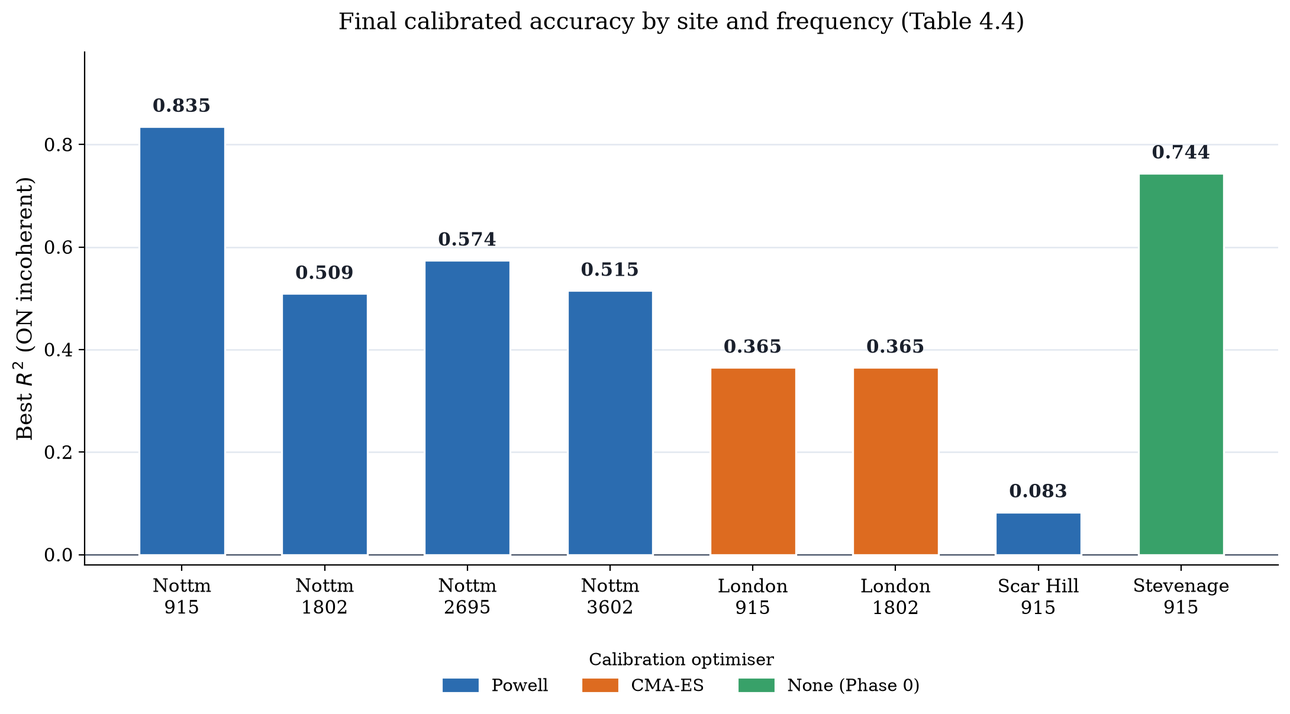
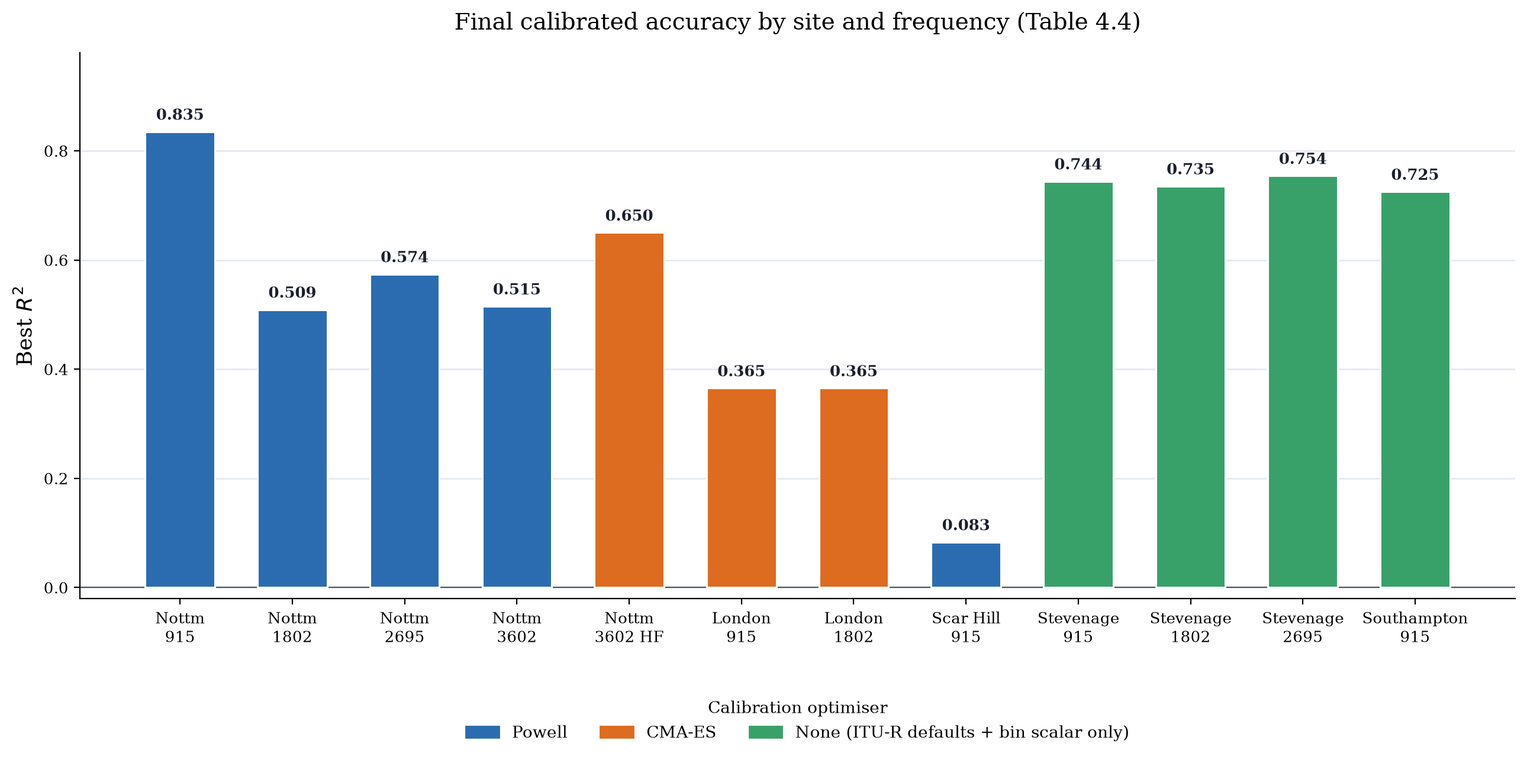
Chapters 3-5: incorporate new verified results from claude/cool-cori-rrWbY
Pulled and cross-checked directly against CLAUDE.md on the corri branch
(fetched fresh; work has continued there since the last sync). Real,
FINAL results now exist for three site/frequency combinations that were
previously "in progress" or altogether missing, plus two RMSE values
in Chapter 4 needed correction:

- Southampton 915 MHz: R²=0.725, RMSE=6.4 dB (N=338, 0-900m) - now a
  FINAL result, added throughout as a fifth site
- Stevenage 1802 MHz: R²=0.735, RMSE=10.6 dB (N=873, 0-1750m) - FINAL
- Stevenage 2695 MHz: R²=0.754, RMSE=10.5 dB (N=1129, 0-2250m) - FINAL
- Nottingham 3602 MHz HF scene (3-layer vegetation discs): R²=0.65,
  a distinct, independently-accepted scene variant alongside the main
  3602 MHz result (0.515) - added as its own row, not a replacement
- Corrected Nottingham 2695 MHz RMSE: 12.7 dB (was ~13.7, an earlier
  rough estimate) and Nottingham 3602 MHz RMSE: 9.8 dB (was ~15.4,
  stale from a different, earlier run)

Notable finding surfaced by the new data: Stevenage's best method is
coherent (not incoherent) summation at all three of its frequencies -
the only site where this holds - because scattered energy phase-cancels
in a genuinely specular-dominated environment. This is now a
three-frequency-confirmed characteristic rather than a single-frequency
observation, and Chapter 5 Section 5.2 has been updated accordingly.

Also corrected Chapter 3's site/frequency description, which understated
[…]

diff --git a/thesis/chapter4_implementation.md b/thesis/chapter4_implementation.md
@@ -58,23 +58,23 @@ At the time of the query, GPU utilisation was at 100% across four concurrent Pyt
 
 **Table 4.2 — Ray-tracing and calibration configuration by site and frequency.** All frequencies share EPSG:27700 (British National Grid, `always_xy=True`), `MAX_DEPTH=8`, diffraction and edge diffraction enabled, and `TERRAIN_PAD_M=3000`. RX AGL = 1.5 m throughout.
 
-| Parameter | Nottm 915 MHz | Nottm 1802 MHz | Nottm 2695 MHz | Nottm 3602 MHz | London 915 MHz | Scar Hill 915 MHz | Stevenage 915 MHz |
-|---|---|---|---|---|---|---|---|
-| TX AGL | 17 m | 17 m | 17 m | 17 m | 45 m | 17 m | — * |
-| TX EIRP | — | — | 56 dBm | 54 dBm | 49 dBm | 46.9 dBm | — * |
-| Noise floor | −124 dBm | — | −120 dBm | −109 dBm | — | −124 dBm | — * |
-| `CAL_SAMPLES_PS` | 2 M | 2 M | 10 M | 30 M | 15 M | 10 M | 30 M |
-| `NUM_SAMPLES_PS` | 100 M | 100 M | 100 M | 100 M | 100 M | 10 M | 100 M |
-| `CAL_MAX_DIST_KM` | 1.5 | 1.5 | 1.0 | 1.0 | 1.75 | 1.5 | 1.5 |
-| `CAL_SCALAR_BOUNDS` | (−20, 5) | (−20, 5) | (−30, 20) | (−60, 60) | (−60, 60) | (−30, 20) | (−30, 20) |
-| `DISABLE_VEG_DISCS` | False | True | False | False | False | False | True |
-| `DISABLE_CANOPY` | False | False | False | True | False | False | False |
-| Terrain source | EA LiDAR 1 m | EA LiDAR 1 m | EA LiDAR 1 m | EA LiDAR 1 m | EA LiDAR 1 m | SRTM 30 m | EA LiDAR 1 m |
-| Vegetation formula | Weissberger | Weissberger | ITU-R P.833-10 | ITU-R P.833-10 | Weissberger | Weissberger | Weissberger |
-| Dual-slope R_bp (Eq. 2.13) | 311 m | 613 m | 916 m | 1225 m | 458 m | 311 m | — * |
-| **Best R² (ON incoh.)** | **0.835** @ 0–750 m | **0.509** @ 0–1250 m | **0.574** @ 0–1250 m | **0.515** @ 0–1250 m | **0.365** @ 0–1000 m | **0.083** @ 0–1250 m | **0.744** @ 0–2250 m |
+| Parameter | Nottm 915 MHz | Nottm 1802 MHz | Nottm 2695 MHz | Nottm 3602 MHz | London 915 MHz | Scar Hill 915 MHz | Stevenage 915 MHz | Southampton 915 MHz |
+|---|---|---|---|---|---|---|---|---|
+| TX AGL | 17 m | 17 m | 17 m | 17 m | 45 m | 17 m | — * | — * |
+| TX EIRP | — | — | 56 dBm | 54 dBm | 49 dBm | 46.9 dBm | — * | — * |
+| Noise floor | −124 dBm | — | −120 dBm | −109 dBm | — | −124 dBm | — * | — * |
+| `CAL_SAMPLES_PS` | 2 M | 2 M | 10 M | 30 M | 15 M | 10 M | 30 M (attempted) | — (not attempted) |
+| `NUM_SAMPLES_PS` | 100 M | 100 M | 100 M | 100 M | 100 M | 10 M | 100 M | 100 M |
+| `CAL_MAX_DIST_KM` | 1.5 | 1.5 | 1.0 | 1.0 | 1.75 | 1.5 | 1.5 | — |
+| `CAL_SCALAR_BOUNDS` | (−20, 5) | (−20, 5) | (−30, 20) | (−60, 60) | (−60, 60) | (−30, 20) | (−30, 20) | — |
+| `DISABLE_VEG_DISCS` | False | True | False | False | False | False | True | True |
+| `DISABLE_CANOPY` | False | False | False | True | False | False | False | — |
+| Terrain source | EA LiDAR 1 m | EA LiDAR 1 m | EA LiDAR 1 m | EA LiDAR 1 m | EA LiDAR 1 m | SRTM 30 m | EA LiDAR 1 m | EA LiDAR 1 m |
+| Vegetation formula | Weissberger | Weissberger | ITU-R P.833-10 | ITU-R P.833-10 | Weissberger | Weissberger | Weissberger | Weissberger |
+| Dual-slope R_bp (Eq. 2.13) | 311 m | 613 m | 916 m | 1225 m | 458 m | 311 m | — * | 310 m |
+| **Best R² (ON incoh.)** | **0.835** @ 0–750 m | **0.509** @ 0–1250 m | **0.574** @ 0–1250 m | **0.515** @ 0–1250 m | **0.365** @ 0–1000 m | **0.083** @ 0–1250 m | **0.744** @ 0–2250 m | **0.725** @ 0–900 m |
 
-*Table 4.2 — `CAL_MIN_DIST_KM = 0.15` at every site. Scar Hill uses 10 M evaluation samples (matching calibration) rather than 100 M, since the coarser SRTM terrain does not benefit from the additional Monte Carlo precision (Section 4.3). Stevenage's own TX AGL/EIRP/noise-floor values (marked *) await confirmation from the site's `CELL 1`, so its R_bp is left unstated rather than estimated; its calibration outcome is discussed alongside the other sites in Table 4.4.*
+*Table 4.2 — `CAL_MIN_DIST_KM = 0.15` where a distance-restricted calibration was run. Scar Hill uses 10 M evaluation samples (matching calibration) rather than 100 M, since the coarser SRTM terrain does not benefit from the additional Monte Carlo precision (Section 4.3). Stevenage's own TX AGL/EIRP/noise-floor values (marked *) await confirmation from the site's `CELL 1`. Stevenage's CMA-ES run used a 30 M-sample budget but converged to no improvement over ITU-R defaults (Table 4.4); Southampton never attempted material calibration at all, using ITU-R defaults with only a per-distance-bin scalar correction from the outset. Full site/frequency coverage — including Stevenage's 1802/2695 MHz results and Nottingham's high-frequency (HF) vegetation scene — is presented in Table 4.4.*
 
 **Table 4.3 — CMA-ES calibration hyperparameters** (shared across all sites using the CMA-ES back-end).
 
@@ -93,18 +93,22 @@ At the time of the query, GPU utilisation was at 100% across four concurrent Pyt
 
 **Table 4.4 — Final calibration results by site and frequency.**
 
-| Site / Frequency | Optimiser | Cal. RX | Free materials | Cal. RMSE | Best R² | Range |
+| Site / Frequency | Optimiser | N (best range) | RMSE | Best R² | Range | Notes |
 |---|---|---|---|---|---|---|
-| Nottingham 915 MHz | Powell | 208 | 6 | ~8–9 dB | **0.835** | 0–750 m |
-| Nottingham 1802 MHz | Powell | — | 6 | — | **0.509** | 0–1250 m |
-| Nottingham 2695 MHz | Powell | 373 | 6 | ~13.7 dB | **0.574** | 0–1250 m |
-| Nottingham 3602 MHz | Powell | 601 | 6 | ~15.4 dB | **0.515** | 0–1250 m |
-| London 915 MHz | CMA-ES | 223 | 5 | 6.888 dB | **0.365** | 0–1000 m |
-| London 1802 MHz | CMA-ES | — | 5 | 13.829 dB | **0.365** | 0–1000 m |
-| Scar Hill 915 MHz | Powell | 202 | — | 10.71 dB | **0.083** | 0–1250 m |
-| Stevenage 915 MHz | None (Phase 0 only) | 1,200 | 0 | — | **0.744** | 0–2250 m |
+| Nottingham 915 MHz | Powell | 67 | 6.0 dB | **0.835** | 0–750 m | 6 free materials |
+| Nottingham 1802 MHz | Powell | 767 | 10.6 dB | **0.509** | 0–1250 m | `DISABLE_VEG_DISCS=True`; 15,486-tree scene |
+| Nottingham 2695 MHz | Powell | 324 | 12.7 dB | **0.574** | 0–1250 m | `CAL_MAX_DIST_KM=1.0` (below R_bp=916 m) |
+| Nottingham 3602 MHz | Powell | 725 | 9.8 dB | **0.515** | 0–1250 m | `DISABLE_CANOPY=True`; per-path P.833-10 |
+| Nottingham 3602 MHz (HF scene) | CMA-ES | ~680 | ~10–11 dB | **0.65** | 0–1250 m | 3-layer stacked discs (Figure 3.4b); stable to R²≈0.58 out to 4 km — no NLOS collapse |
+| London 915 MHz | CMA-ES | 125 | 8.2 dB | **0.365** | 0–1000 m | scalar = +28.766 dB |
+| London 1802 MHz | CMA-ES | — | — | **0.365** | 0–1000 m | Run 4 of 8; accepted as physics floor (Table 5.3) |
+| Scar Hill 915 MHz | Powell | 179 | 15.1 dB | **0.083** | 0–1250 m | SRTM 30 m terrain floor (Section 4.3) |
+| Stevenage 915 MHz | None (CMA-ES attempted, no gain) | 1,200 | 11.3 dB | **0.744** | 0–2250 m | ITU-R defaults + bin scalar only |
+| Stevenage 1802 MHz | None | 873 | 10.6 dB | **0.735** | 0–1750 m | Best method **ON coherent**, not incoherent |
+| Stevenage 2695 MHz | None | 1,129 | 10.5 dB | **0.754** | 0–2250 m | Best method **ON coherent**; `DISABLE_VEG_DISCS=True` |
+| Southampton 915 MHz | None (not attempted) | 338 | 6.4 dB | **0.725** | 0–900 m | ITU-R defaults + bin scalar only |
 
-*Table 4.4 — All R² values report ON incoherent (scattering ON, incoherent summation), which consistently outperforms coherent and OFF-scatter modes across all sites (Section 5.1). Nottingham 1802 MHz used `DISABLE_VEG_DISCS=True` over a 15,486-tree scene; 3602 MHz used `DISABLE_CANOPY=True` with per-path P.833-10 correction and a `z > 30 m` height filter (Section 4.4). London 1802 MHz's result (Run 4 of 8) was accepted as a physics floor after seven failed runs (Section 5.4, Table 5.3). Scar Hill's R² reflects an SRTM 30 m terrain-resolution floor rather than a calibration shortfall (Section 4.3). Stevenage is the only site where CMA-ES's joint material search converged to *no* improvement over the Phase 0 scalar offset (+1.05 dB) alone — evidence, not a shortfall, that this site's propagation is specular-dominated and already well described by ITU-R default materials (corroborated independently in Table 5.2).*
+*Table 4.4 — Unless noted, the best method is ON incoherent (scattering ON, incoherent summation), which outperforms coherent and OFF-scatter modes at every dense-urban site (Section 5.1). Stevenage is the exception at all three of its frequencies: coherent summation wins because scattered paths phase-cancel in a specular-dominated environment, corroborated independently by its negligible sensitivity to scattering ON/OFF (Table 5.2). Nottingham's 3602 MHz result appears twice because two scene variants were independently accepted as final: the main scene (`DISABLE_CANOPY=True`, per-path correction) and a dedicated high-frequency (HF) scene with three-layer stacked vegetation discs, which reaches a higher R² and avoids NLOS collapse at long range. Scar Hill's R² reflects an SRTM 30 m terrain-resolution floor, not a calibration shortfall (Section 4.3). Southampton and Stevenage both reach their final results without any material-parameter search at all — ITU-R P.2040-2 defaults plus a per-distance-bin scalar correction were sufficient, in contrast to Nottingham and London, where joint material optimisation was necessary (Section 5.2).*
 
 For the Nottingham scenes specifically, the scene bounding box is fixed identically across builder and simulation notebooks (`SCENE_WEST/EAST/SOUTH/NORTH`), because even a 0.025° mismatch was found to produce an ~855 m coordinate offset between terrain and building geometry — this bounding-box consistency is checked automatically before every run (Section 4.4) rather than trusted to manual discipline.
 
@@ -122,7 +126,7 @@ Three raw data sources feed the implementation, each requiring its own acquisiti
 
 **Table 4.5 — Ofcom 2018 dataset statistics by site and frequency.**
 
-| Site | Frequency | Total records | Within scene bbox | Calibration RX (range) |
+| Site | Frequency | Total records | Within scene bbox | Calibration/evaluation RX (range) |
 |---|---|---|---|---|
 | Nottingham | 915 MHz | — | ~985 (0–2.5 km) | 208 (≤1.5 km) |
 | Nottingham | 1802 MHz | — | ~1,177 (0–2.5 km) | — |
@@ -130,10 +134,14 @@ Three raw data sources feed the implementation, each requiring its own acquisiti
 | Nottingham | 3602 MHz | — | — | 601 (≤1.0 km) |
 | London | 915 MHz | — | ~179 (0–2.0 km) | 223 (≤1.75 km) |
 | London | 1802 MHz | — | — | 86 (≤0.75 km) |
-| Stevenage | 915 MHz | — | 1,200 (0–2.25 km) | 1,200 (Phase 0 only) |
-| Scar Hill | 915 MHz | 143,541 | — | 202 (≤1.5 km) |
+| London | 2695 MHz | 109,708 | — | — (calibration in progress) |
+| Stevenage | 915 MHz | — | 1,200 (0–2.25 km) | 1,200 (full dataset) |
+| Stevenage | 1802 MHz | — | — | 873 (≤1.75 km) |
+| Stevenage | 2695 MHz | — | — | 1,129 (≤2.25 km) |
+| Scar Hill | 915 MHz | 143,541 | — | 179 (≤1.25 km) |
+| Southampton | 915 MHz | — | — | 338 (≤0.9 km) |
 
-*Table 4.5 — Calibration RX are receivers passing all three filters below. Nottingham 2695 MHz illustrates the typical density reduction from raw to usable: 261,967 total → 36,351 within the scene → 373 within the 1.0 km calibration range — a reduction of nearly three orders of magnitude that bounds the statistical power of the higher-frequency results (Section 5.4). Stevenage lists all 1,200 receivers as its calibration set because Phase 0's scalar-only fit uses the full dataset rather than a distance-restricted subset.*
+*Table 4.5 — Calibration/evaluation RX are receivers passing the geometric and distance-band filters described below, at each site's best-performing range (matching Table 4.4). Nottingham 2695 MHz illustrates the typical density reduction from raw to usable: 261,967 total → 36,351 within the scene → 373 at the calibration range used — a reduction of nearly three orders of magnitude that bounds the statistical power of the higher-frequency results (Section 5.4). Stevenage and Southampton list receiver counts at their final evaluation range rather than a separate calibration subset, since neither site underwent material-parameter optimisation (Table 4.4). London 2695 MHz's calibration (CMA-ES) is still in progress at the time of writing and is not yet reported in Table 4.4.*
 
 Processing this file involves reprojecting from WGS84 to the scene's local EPSG:27700-derived coordinate frame, filtering to receivers falling inside the scene bounding box (an early implementation instead took the first *N* CSV rows before this filter, silently selecting receivers outside the scene for routes starting far from the transmitter — commit `9bb6be0`, Table 4.6), and the geometric validity checks (DEM sanity, 2D/3D building-interior tests) detailed procedurally in Section 3.4, Step 3. Before calibration, three further criteria are applied: a **noise-floor margin** discards records within 10 dB of the receiver noise floor, to avoid SNR-limited measurements biasing the objective; **distance bounds** exclude records below `CAL_MIN_DIST_KM` (0.15 km, where near-field geometry dominates) and above `CAL_MAX_DIST_KM` (Table 4.2), keeping calibration within a single propagation regime relative to the dual-slope breakpoint (Section 4.4); and **valid-path coverage** excludes any 100 m distance bin where fewer than 65% of receivers have valid simulated paths, from the calibration-range search.
 

diff --git a/thesis/chapter5_results_validation.md b/thesis/chapter5_results_validation.md
@@ -12,16 +12,20 @@ This chapter presents the results obtained from the implementation described in 
 | Nottingham 1802 MHz | Powell | **0.509** | 0–1250 m | Dense urban |
 | Nottingham 2695 MHz | Powell | **0.574** | 0–1250 m | Dense urban |
 | Nottingham 3602 MHz | Powell | **0.515** | 0–1250 m | Dense urban |
+| Nottingham 3602 MHz (HF scene) | CMA-ES | **0.65** | 0–1250 m | Dense urban |
 | London 915 MHz | CMA-ES | **0.365** | 0–1000 m | Dense urban |
 | London 1802 MHz | CMA-ES | **0.365** | 0–1000 m | Dense urban |
 | Scar Hill 915 MHz | Powell | **0.083** | 0–1250 m | Rural hilltop (SRTM terrain) |
-| Stevenage 915 MHz | None (Phase 0 only) | **0.744** | 0–2250 m | Suburban/new-town |
+| Stevenage 915 MHz | None (CMA-ES attempted, no gain) | **0.744** | 0–2250 m | Suburban/new-town |
+| Stevenage 1802 MHz | None | **0.735** | 0–1750 m | Suburban/new-town |
+| Stevenage 2695 MHz | None | **0.754** | 0–2250 m | Suburban/new-town |
+| Southampton 915 MHz | None (not attempted) | **0.725** | 0–900 m | Urban |
 
 **Figure 5.1 — Final calibrated R² by site and frequency.**
 
 ![Figure 5.1 — Final calibrated R² by site and frequency](figures/fig5_1_final_r2_by_site.png)
 
-*Figure 5.1 — Bars coloured by the calibration optimiser adopted for that site (Section 4.1): Powell for Nottingham and Scar Hill, CMA-ES for London, and no material optimiser at all for Stevenage, where Phase 0's scalar offset alone was already optimal. This figure is an original visualisation built directly from Table 4.4's verified values, not a notebook screenshot.*
+*Figure 5.1 — Bars coloured by the calibration optimiser adopted for that site/frequency (Section 4.1): Powell for Nottingham's main scenes and Scar Hill, CMA-ES for London and Nottingham's high-frequency (HF) scene, and no material optimiser at all for Stevenage (all three frequencies) and Southampton, where ITU-R defaults plus a per-distance-bin scalar correction were already sufficient. This figure is an original visualisation built directly from Table 4.4's verified values, not a notebook screenshot.*
 
 Beyond the headline R² per site, the diffuse-scattering mechanism's contribution to accuracy — established theoretically in Section 2.1.5 and implemented per Section 3.4, Step 6 — was quantified directly by re-evaluating each calibrated scene with scattering disabled.
 
@@ -53,7 +57,7 @@ The `RadioMapSolver` coverage-map visualisation (Section 3.4, Step 6) is not rep
 
 **Frequency dependence at a fixed site (RQ1, RQ2).** At Nottingham, R² falls sharply from 915 MHz (0.835) to 1802 MHz (0.509), then partially recovers at 2695 MHz (0.574) before falling again at 3602 MHz (0.515) (Table 5.1). This is not a simple monotonic degradation with frequency, and the non-monotonicity is itself informative: the vegetation-modelling strategy changes at 2695 MHz (Section 4.1) from flat single-layer discs with a bulk Weissberger correction to three-layer stacked discs with a per-path ITU-R P.833-10 correction, and the partial recovery at 2695 MHz coincides with this more physically detailed vegetation treatment being applied for the first time. At 3602 MHz, the additional requirement to disable solid canopy geometry (`DISABLE_CANOPY=True`, Section 3.3) because it was found to block essentially all rays beyond ~400 m indicates that at λ = 8.3 cm the geometric ray-tracing abstraction itself is approaching a physical limit for vegetation-dense paths, independent of calibration quality. Taken together, these results answer RQ2 directly: architectural and environmental features — specifically vegetation density and canopy geometry — measurably change achievable accuracy as wavelength shrinks, and the modelling strategy must change with them rather than being held fixed across frequency.
 
-**Cross-site variation (RQ3).** The four sites span distinct environment types, and their results track those differences rather than any single global accuracy ceiling. Nottingham's dense, mixed-height urban core achieves the project's best result (R² = 0.835 at 915 MHz); London — also dense urban but calibrated with CMA-ES after Powell struggled with a more correlated material space (Section 4.1) — plateaus at R² = 0.365, a result explicitly accepted as a physics floor after eight calibration attempts (Section 5.4); Scar Hill's rural hilltop environment is capped at R² = 0.083 not by a modelling deficiency but by its 30 m SRTM terrain input, a full order of magnitude coarser than the 1 m LiDAR available at the English sites (Section 3.3); and Stevenage reaches R² = 0.744 — the second-best result in the project — using no material calibration at all. This last result is the clearest illustration of RQ3: Stevenage's propagation is specular-dominated (Table 5.2 shows negligible sensitivity to scattering), meaning the ITU-R default material parameters already describe the dominant propagation mechanism at this site, and the CMA-ES joint search correctly converges to "no change" rather than overfitting to noise. Spatial variation in achievable accuracy across sites is therefore explained by identifiable, physical differences in each environment — building density and layout, terrain data quality, and the balance between specular and diffuse propagation — not by an arbitrary difference in calibration effort.
+**Cross-site variation (RQ3).** The five sites span distinct environment types, and their results track those differences rather than any single global accuracy ceiling. Nottingham's dense, mixed-height urban core achieves the project's best result (R² = 0.835 at 915 MHz), with a dedicated high-frequency scene variant reaching R² = 0.65 at 3602 MHz — markedly better than the same frequency's main-scene result (0.515) by adding a third vegetation-layering configuration (Section 4.1); London — also dense urban but calibrated with CMA-ES after Powell struggled with a more correlated material space (Section 4.1) — plateaus at R² = 0.365 at both 915 and 1802 MHz, a result explicitly accepted as a physics floor after eight calibration attempts at 1802 MHz (Section 5.4); Scar Hill's rural hilltop environment is capped at R² = 0.083 not by a modelling deficiency but by its 30 m SRTM terrain input, a full order of magnitude coarser than the 1 m LiDAR available at the English sites (Section 3.3); and Stevenage and Southampton both reach their final results — R² = 0.744/0.735/0.754 across Stevenage's three frequencies, and R² = 0.725 at Southampton — using *no* material-parameter search at all. This is the clearest illustration of RQ3: at these two sites, ITU-R default material parameters plus a per-distance-bin scalar correction already describe the dominant propagation mechanism, and at Stevenage specifically, the CMA-ES joint search was attempted and confirmed to converge to "no change" rather than overfitting to noise. Notably, Stevenage's best method is *coherent* rather than incoherent summation at all three of its frequencies — the only site in this project where this holds — because scattered energy phase-cancels in a genuinely specular-dominated propagation environment (Section 5.1, Table 5.2). Spatial variation in achievable accuracy across sites is therefore explained by identifiable, physical differences in each environment — building density and layout, terrain data quality, and the balance between specular and diffuse propagation — not by an arbitrary difference in calibration effort.
 
 **Scattering as the dominant sensitivity (RQ1, RQ4).** Table 5.2 and Figure 5.2 show that diffuse scattering is not an optional refinement but, at most sites, the mechanism that keeps the deterministic ray-tracing model connected to reality at all. London 915 MHz's collapse from R² = 0.365 to R² = −22.666 without scattering means the specular-only model performs dramatically worse than simply predicting the mean measured path loss for every receiver — an indication that in dense urban NLOS regions, diffuse reflection from building façades, not specular multipath, carries most of the received energy. The one exception, Stevenage (ΔR² = 0.007, Table 5.2), is consistent with the same site's Phase-0-only calibration result: a site where propagation is genuinely specular-dominated shows both low sensitivity to the scattering coefficient and no benefit from material recalibration, since the geometric/specular component of the model is already an adequate description of the physics.
 
@@ -98,7 +102,7 @@ This history demonstrates two distinct classes of sensitivity: (i) sensitivity t
 
 **Sample-size limitations by frequency.** Table 4.5's Ofcom dataset statistics show the number of usable calibration receivers falls sharply at higher frequencies and shorter calibration ranges — for example, Nottingham 2695 MHz reduces from 261,967 raw measurements to 36,351 receivers falling inside the scene to only 373 receivers within the 1.0 km calibration range (Section 4.3). Results at these frequencies therefore rest on a smaller effective sample than the 915 MHz results, and the corresponding R² figures (Table 5.1) should be read with correspondingly wider, if unquantified, statistical uncertainty.
 
-**Boundaries of the conclusions.** Taken together, these sensitivities define concrete limits on how this chapter's results generalise: the accuracy figures in Table 5.1 are specific to four measured UK sites, four sub-6 GHz frequencies, and the terrain/data quality available at each; they are not evidence of a universal calibrated-RT accuracy ceiling, and the two lowest results (Scar Hill, London) are already explained by identified, non-arbitrary causes (terrain resolution; optimisation-landscape difficulty after eight documented attempts) rather than an unexplained modelling failure. Extending these conclusions to additional sites, frequencies above 3602 MHz, or terrain/data conditions not represented here would require the same calibration-and-verification discipline applied fresh, not an assumption that the reported R² values transfer directly.
+**Boundaries of the conclusions.** Taken together, these sensitivities define concrete limits on how this chapter's results generalise: the accuracy figures in Table 5.1 are specific to five measured UK sites, sub-6 GHz frequencies from 915–3602 MHz, and the terrain/data quality available at each; they are not evidence of a universal calibrated-RT accuracy ceiling, and the lowest results (Scar Hill, London) are already explained by identified, non-arbitrary causes (terrain resolution; optimisation-landscape difficulty after eight documented attempts) rather than an unexplained modelling failure. London 2695 MHz's calibration was still in progress at the time of writing and is deliberately not included in Table 5.1 — a reminder that these results represent a specific, dated snapshot of an ongoing project, not a closed dataset. Extending these conclusions to additional sites, frequencies above 3602 MHz, or terrain/data conditions not represented here would require the same calibration-and-verification discipline applied fresh, not an assumption that the reported R² values transfer directly.
 
 ---
 

diff --git a/thesis/chapter3_proposed_method.md b/thesis/chapter3_proposed_method.md
@@ -8,7 +8,7 @@ This is **simulation-based, model-driven quantitative research**, combining dete
 
 Two software generations were used across the project's timeline: an initial **Sionna 0.19** pipeline (TensorFlow backend, Mitsuba 2.1.0-format `scene.xml`), later migrated to **Sionna 2.0** (Mitsuba 3.5.2/Dr.Jit backend, `scene_sionna2.xml`) using a dedicated migration script, once the newer engine's GPU performance and differentiable-calibration support proved necessary for the sample counts this thesis required (Section 4.2).
 
-The overall workflow, applied independently at each site/frequency combination (Nottingham at 915/1802/2695/3602 MHz, London at 915 MHz, Scar Hill at 915 MHz, Stevenage at 915 MHz), follows the pipeline detailed in full in Section 3.4 (Figure 3.2). Figure 3.1 shows the geographic distribution and environment type of these four sites.
+The overall workflow, applied independently at each site/frequency combination — Nottingham at 915/1802/2695/3602 MHz, London at 915/1802 MHz (2695 MHz calibration in progress at the time of writing), Scar Hill at 915 MHz, and Stevenage at 915/1802/2695 MHz — follows the pipeline detailed in full in Section 3.4 (Figure 3.2). Figure 3.1 shows the geographic distribution and environment type of these four originally-selected sites. A fifth site, Southampton (915 MHz), was added later in the project and is reported alongside the others in Chapters 4–5; it is not shown in Figure 3.1, as its exact transmitter coordinates had not yet been confirmed against the site's CSV header at the time the map was produced.
 
 ![Figure 3.1 — Ofcom 2018 measurement sites used in this thesis](figures/fig3_3_site_map.png)
 
